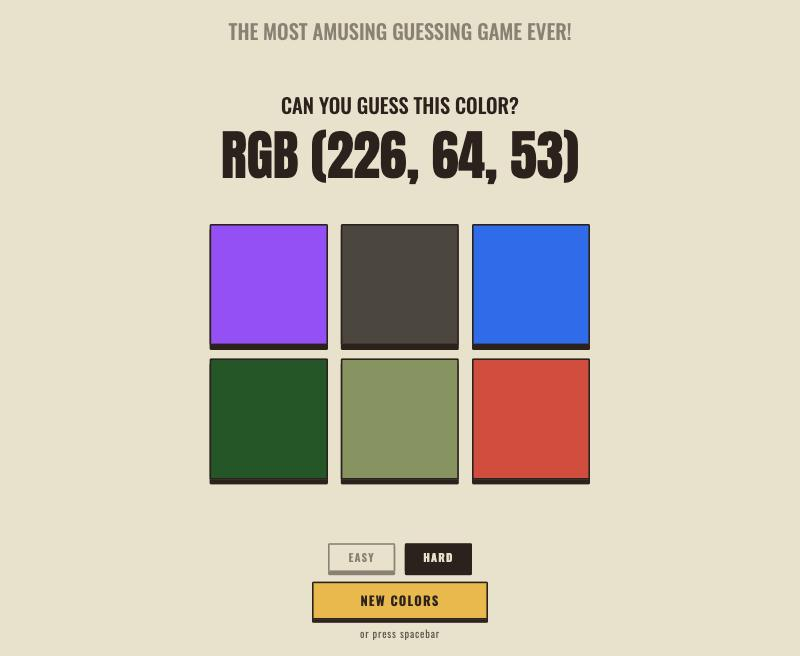
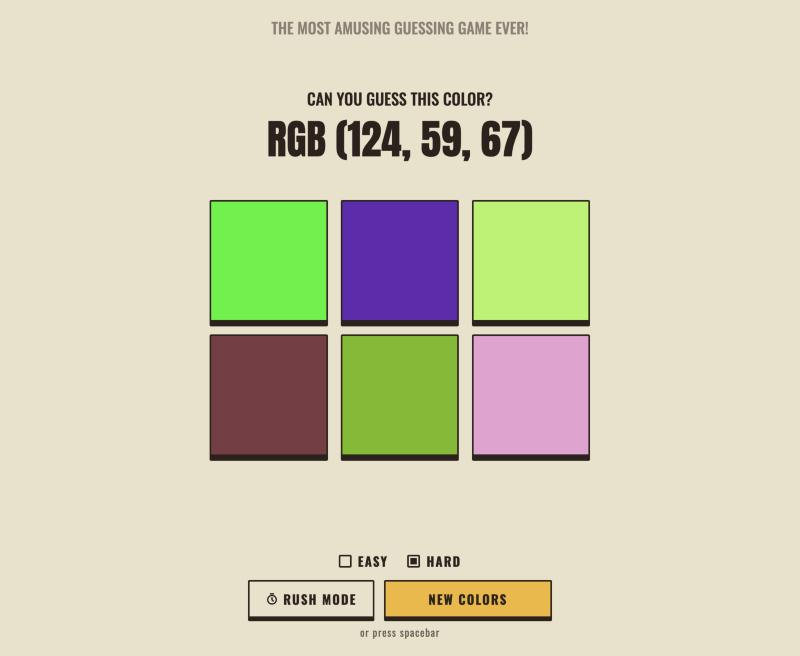
cleanup-docs

diff --git a/colorguess.js b/colorguess.js
@@ -1,8 +1,11 @@
+// Guess RGB Right: match the RGB value to the right color box.
+// Normal mode: one color at a time. Rush mode: as many as you can in RUSH_SECONDS.
+
 const boxes = document.querySelectorAll(".box");
 const promptText = document.getElementById("prompt");
 const rgb = document.getElementById("rgb");
 const message = document.getElementById("message");
-const newColors = document.getElementById("new-colors");
+const mainButton = document.getElementById("new-colors");
 const easy = document.getElementById("easy");
 const hard = document.getElementById("hard");
 const rushToggle = document.getElementById("rush");
@@ -11,16 +14,16 @@ const timeText = document.getElementById("time");
 const scoreText = document.getElementById("score");
 
 const RUSH_SECONDS = 30;
+const PROMPT = "Can you guess this color?";
 
-let count = 6; // number of boxes in play: 3 for easy, 6 for hard
-let goal; // the winning color
-let won = false; // true when box clicks should be ignored
+let count = 6; // boxes in play: 3 for easy, 6 for hard
+let goal; // the winning color, as "rgb(r, g, b)"
+let locked = false; // true while box clicks should be ignored
 
-// rush mode: guess as many as you can in RUSH_SECONDS
-let rush = false; // rush mode selected
+let rush = false; // rush mode switched on
 let running = false; // a rush run is in progress
 let score = 0;
-let deadline;
+let deadline; // when the current rush run ends (ms timestamp)
 let timer;
 
 function randomColor() {
@@ -37,10 +40,14 @@ function isDark(color) {
     return 0.2126 * r + 0.7152 * g + 0.0722 * b < 0.18;
 }
 
-// best rush score for this browser tab session, kept separately for easy and hard
+// best rush score for this browser tab session, kept per difficulty and run length
+function bestKey() {
+    return `best-${count}-${RUSH_SECONDS}`;
+}
+
 function getBest() {
     try {
-        return Number(sessionStorage.getItem(`best-${count}-${RUSH_SECONDS}`)) || 0;
+        return Number(sessionStorage.getItem(bestKey())) || 0;
     } catch {
         return 0;
     }
@@ -48,7 +55,7 @@ function getBest() {
 
 function setBest(n) {
     try {
-        sessionStorage.setItem(`best-${count}-${RUSH_SECONDS}`, n);
+        sessionStorage.setItem(bestKey(), n);
     } catch {}
 }
 
@@ -69,47 +76,51 @@ function deal() {
     });
 }
 
+// ---- normal mode ----
+
 function newRound() {
     deal();
-    won = false;
-    promptText.textContent = "Can you guess this color?";
-    newColors.textContent = "NEW COLORS";
+    locked = false;
+    promptText.textContent = PROMPT;
+    mainButton.textContent = "NEW COLORS";
 }
 
 function win() {
-    won = true;
+    locked = true;
     promptText.textContent = "You guessed it right AMAZING DUDE!!";
     message.textContent = "CORRECT! ^-^";
-    newColors.textContent = "AGAIN?";
+    mainButton.textContent = "AGAIN?";
     document.body.style.backgroundColor = goal;
     document.body.classList.toggle("dark", isDark(goal));
     boxes.forEach((box) => (box.style.backgroundColor = "var(--beige)"));
 }
 
-// rush, before a run: show the colors but wait for START
-// timer and score row, shown between the color grid and the buttons in rush mode
+// ---- rush mode ----
+
+// timer and score row between the color grid and the buttons
 function showHud(seconds) {
     timeText.textContent = seconds;
     scoreText.textContent = `Score ${score}`;
 }
 
+// before a run: show the colors but wait for START
 function rushReady() {
     deal();
-    won = true;
+    locked = true;
     score = 0;
     showHud(RUSH_SECONDS);
-    promptText.textContent = "Can you guess this color?";
+    promptText.textContent = PROMPT;
     message.textContent = `BEST ${getBest()}`;
-    newColors.textContent = "START";
+    mainButton.textContent = "START";
 }
 
 function startRush() {
     running = true;
-    won = false;
+    locked = false;
     score = 0;
     deadline = Date.now() + RUSH_SECONDS * 1000;
     deal();
-    newColors.textContent = "SKIP";
+    mainButton.textContent = "SKIP";
     tick();
     timer = setInterval(tick, 100);
 }
@@ -123,16 +134,18 @@ function tick() {
 function endRush() {
     clearInterval(timer);
     running = false;
-    won = true;
+    locked = true;
     const best = getBest();
     if (score > best) setBest(score);
     showHud(0);
     promptText.textContent = `Time! You got ${score}`;
     message.textContent = score > best ? "NEW BEST!" : `BEST ${best}`;
-    newColors.textContent = "AGAIN?";
+    mainButton.textContent = "AGAIN?";
 }
 
-// leave any run in progress and start fresh in the current mode
+// ---- shared ----
+
+// stop any run in progress and start fresh in the current mode
 function reset() {
     clearInterval(timer);
     running = false;
@@ -155,7 +168,7 @@ function setCount(n) {
 
 boxes.forEach((box) => {
     box.addEventListener("click", () => {
-        if (won) return;
+        if (locked) return;
         if (box.style.backgroundColor !== goal) {
             box.style.opacity = 0; // fade out the wrong guess, shadow included
             message.textContent = "TRY AGAIN :/";
@@ -171,12 +184,14 @@ boxes.forEach((box) => {
 
 easy.addEventListener("change", () => setCount(3));
 hard.addEventListener("change", () => setCount(6));
+
 rushToggle.addEventListener("click", () => {
     rush = !rush;
-    rushToggle.classList.toggle("selected", rush);
+    rushToggle.setAttribute("aria-pressed", rush);
     reset();
 });
-newColors.addEventListener("click", action);
+
+mainButton.addEventListener("click", action);
 
 // spacebar does the same as the main button
 document.addEventListener("keydown", (e) => {

diff --git a/colorguess.css b/colorguess.css
@@ -2,9 +2,9 @@
     --beige: #E9E1C9;
     --ink: #2E211C;
     --yellow: #F2B630;
-    --red: #D9432F;
-    --brown: #B59A83; /* lighter brown accent */
-    --control-size: 16px; /* shared text size for EASY / HARD / RUSH MODE / NEW COLORS */
+    --red: #D9432F; /* main button hover */
+    --brown: #B59A83; /* RUSH MODE outline when switched on */
+    --control-size: 16px; /* shared text size for EASY / HARD and the two buttons */
 }
 
 /* on a dark winning color, flip the text to beige so it stays readable */
@@ -106,7 +106,7 @@ h1 {
 
 /* the seconds unit, 8px smaller than the number */
 #hud small {
-    font-size: calc(1.4rem - 8px);
+    font-size: calc(1em - 8px);
 }
 
 #hud[hidden] {
@@ -127,12 +127,19 @@ h1 {
     opacity: 0.7;
 }
 
-button {
-    font: inherit;
+/* shared text style for the buttons and the EASY / HARD labels */
+button,
+#modes label {
+    font-size: var(--control-size);
     font-weight: 700;
     text-transform: uppercase;
     letter-spacing: 1.5px;
-    padding: 10px 28px;
+}
+
+button {
+    font-family: inherit;
+    padding: 10px 12px;
+    white-space: nowrap;
     border: 2px solid var(--ink);
     border-radius: 2px;
     box-shadow: 0 4px 0 var(--ink);
@@ -149,7 +156,7 @@ button:active {
     transition-duration: 0.05s;
 }
 
-/* bottom row: main button with the RUSH MODE toggle beside it */
+/* bottom row: RUSH MODE toggle, then the main button */
 #actions {
     display: flex;
     gap: 12px;
@@ -157,19 +164,12 @@ button:active {
     max-width: 380px;
 }
 
-#actions button {
-    font-size: var(--control-size);
-    padding: 10px 12px;
-    white-space: nowrap;
-}
-
-/* primary: NEW COLORS / PLAY AGAIN */
+/* main button: NEW COLORS / START / SKIP / AGAIN? */
 #new-colors {
     flex: 1.4;
     background-color: var(--yellow);
     color: var(--ink);
 }
-
 
 /* EASY / HARD radio choice */
 #modes {
@@ -179,13 +179,9 @@ button:active {
 }
 
 #modes label {
-    font-size: var(--control-size);
     display: flex;
     align-items: center;
     gap: 8px;
-    font-weight: 700;
-    text-transform: uppercase;
-    letter-spacing: 1.5px;
     cursor: pointer;
 }
 
@@ -227,14 +223,14 @@ button:active {
     flex: none;
 }
 
-#rush.selected {
+#rush[aria-pressed="true"] {
     background-color: var(--text);
     color: var(--beige);
     border-color: var(--brown);
     box-shadow: 0 4px 0 var(--brown);
 }
 
-body.dark #rush.selected {
+body.dark #rush[aria-pressed="true"] {
     color: var(--ink);
 }
 
@@ -245,8 +241,8 @@ body.dark #rush.selected {
         color: var(--beige);
     }
 
-    /* unselected RUSH MODE gets a light tint on hover */
-    #rush:not(.selected):hover {
+    /* RUSH MODE, when off, gets a light tint on hover */
+    #rush[aria-pressed="false"]:hover {
         background-color: color-mix(in srgb, var(--text) 12%, transparent);
     }
 }
@@ -291,7 +287,7 @@ body.dark #rush.selected {
         --control-size: 13px;
     }
 
-    #actions button {
+    button {
         padding: 10px 6px;
         letter-spacing: 0.5px;
     }

diff --git a/index.html b/index.html
@@ -32,13 +32,13 @@
             <span><span id="time"></span><small>s</small></span>
             <span id="score"></span>
         </div>
-        <span id="message"></span>
+        <span id="message" aria-live="polite"></span>
         <div id="modes">
             <label><input type="radio" name="difficulty" id="easy"> Easy</label>
             <label><input type="radio" name="difficulty" id="hard" checked> Hard</label>
         </div>
         <div id="actions">
-            <button id="rush">
+            <button id="rush" aria-pressed="false">
                 <svg viewBox="0 0 24 24" width="16" height="16" aria-hidden="true" fill="none" stroke="currentColor" stroke-width="2.5" stroke-linecap="round">
                     <circle cx="12" cy="13" r="8" />
                     <path d="M12 9v4l2.5 2.5M9 2h6" />

diff --git a/README.md b/README.md
@@ -1,19 +1,43 @@
-# Color Guessing Game
+# Guess RGB Right
 
 A game to get your right brain to work! You're shown an RGB value, can you pick the matching color?
 
+**Play it online: https://roshnidesigns.github.io/guess-rgb-right/**
+
 ![Playing the game](images/play.jpg)
-![Winning screen](images/win.jpg)
 
 ## How to play
 
-- Look at the RGB value at the top and click the box you think matches it.
+- Look at the RGB value and click the box you think matches it.
+- A wrong guess fades that box out, so try again.
 - Guess right and the whole page turns that color.
 - Pick **Easy** (3 colors) or **Hard** (6 colors).
 - Hit **New Colors** or press the **spacebar** for a new round.
 
-## Run it
+![Winning screen](images/win.jpg)
 
-Play it online at **https://roshnidesigns.github.io/guess-rgb-right/**
+## Rush mode
 
-Or run it locally, no setup needed, just open `index.html` in your browser.
+How many colors can you get right in 30 seconds?
+
+- Switch on **Rush Mode** and hit **Start** (or press the spacebar).
+- Every correct guess scores a point and deals new colors right away.
+- Wrong guesses cost nothing but time. Stuck? Hit **Skip**.
+- Your best score is kept for the current browser tab, separately for Easy and Hard.
+
+![Rush mode](images/rush.jpg)
+
+## Run it locally
+
+No setup needed, just open `index.html` in your browser.
+
+## Files
+
+| File | What it does |
+|---|---|
+| `index.html` | Page layout: title, color boxes and controls |
+| `colorguess.css` | Retro beige look, layout for phone and desktop |
+| `colorguess.js` | Game logic for normal play and Rush mode |
+| `images/` | Screenshots used in this README |
+
+To change the Rush mode length, edit `RUSH_SECONDS` at the top of `colorguess.js`. The theme colors live at the top of `colorguess.css`.
